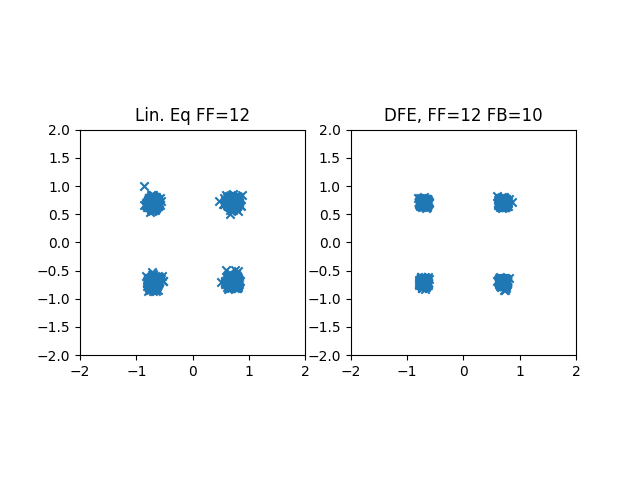
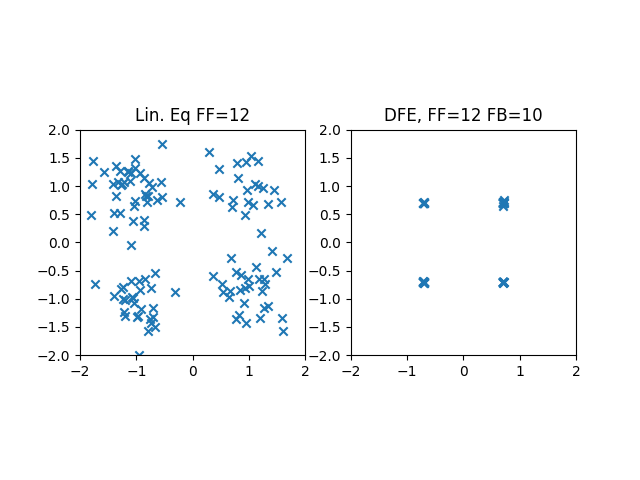
up

diff --git a/test_files/test_dfe_ms_v8_dfe.py b/test_files/test_dfe_ms_v8_dfe.py
@@ -203,7 +203,7 @@ def transmit(v,snr,Fs,fs,fc,n_rx,d0,bf):
         #v = sg.resample_poly(vr,1,4)
         vp = v[:len(up)+Nz*Ns]
         delval,xvals = fdel(vp,up)
-        delvals[i,:] = xvals
+        #delvals[i,:] = xvals
         vp1 = vp[delval:delval+len(up)]
         lendiff = len(up)-len(vp1)
         if lendiff > 0:
@@ -296,7 +296,7 @@ def dfe_matlab(vk, d, Ns, Nd, M):
     Lbf = 0.99
     Nplus = 6
 
-    v = vk
+    v = np.copy(vk)
 
     f = np.zeros((Nd,K),dtype=complex)
     
@@ -364,6 +364,107 @@ def dfe_matlab(vk, d, Ns, Nd, M):
         mse = 100
     return d_hat[Nt : -1], mse, #n_err, n_training
 
+def lineq(vk, d, Ns, Nd): 
+    M = 0
+    K = len(vk[:,0]) # maximum
+    Ns = 2
+    N = int(6 * Ns)
+    delta = 0 #10**(-3)
+    Nt = 4*(N+M)
+    FS = 2
+    Kf1 = 0.000
+    L = 0.99
+    P = np.eye(int(K*N+M))/delta
+    Lbf = 0.99
+    Nplus = 6
+
+    v = np.copy(vk)
+
+    f = np.zeros((Nd,K),dtype=complex)
+    
+    a = np.zeros(int(K*N), dtype=complex)
+    #b = np.zeros(M, dtype=complex)
+    #c = np.append(a, -b)
+    p = np.zeros(int(K),dtype=complex)
+    #d_tilde = np.zeros(M, dtype=complex)
+    Sf = np.zeros(K)
+    x = np.zeros((K,N), dtype=complex)
+    et = np.zeros(Nd, dtype=complex)
+    d_hat = np.zeros_like(d, dtype=complex)
+
+    for n in range(Nd-1):
+        nb = (n) * Ns + (Nplus - 1) * Ns
+        xn = v[
+            :, int(nb + np.ceil(Ns / FS / 2)-1) : int(nb + Ns)
+            : int(Ns / FS)
+        ]
+
+        x = x[:,:N] # in matlab, this appends zeros
+
+        for k in range(K):
+            p[k] = np.inner(x[k,:], np.conj(a[(k*N):(k+1)*N]))
+        psum = p.sum()
+        #print(psum)
+
+        d_hat[n] = psum
+
+        if n > Nt:
+            d[n] = dec4psk(d_hat[n])
+
+        e = d[n]- d_hat[n]
+        et[n] = np.abs(e ** 2)
+
+
+        y = np.reshape(x,int(K*N))
+
+        # RLS
+        k = (
+            np.matmul(P, y) / L
+            / (1 + np.matmul(np.matmul(y.conj(), P), y) / L)
+        )
+        a += k * np.conj(e)
+        P = P / L - np.matmul(np.outer(k, y.conj()), P) / L
+
+        a = a[:int(K*N)]
+
+    mse = 10 * np.log10(
+        np.mean(np.abs(d[Nt : -1 ] - d_hat[Nt : -1]) ** 2)
+    )
+    if np.isnan(mse):
+        mse = 100
+    return d_hat[Nt : -1], mse, #n_err, n_training
+
+def lms(v,d):
+    Nd = 3000
+    ns = 2
+    Nplus = 6
+    FS = 2
+    n_training = 88
+    d_hat = np.zeros(len(d), dtype=complex)
+    mu = 0.1
+    #v = v.flatten()
+    vn = np.copy(v)
+    for i in np.arange(len(d) - 1, dtype=int):
+        # resample v with fractional spacing
+        nb = (i) * ns + (Nplus - 1) * ns - 1 # basically a sample index
+        v_nt = vn[ int(nb + np.ceil(ns / FS / 2)) : int(nb + ns) 
+            + 1 : int(ns / FS)]
+        if len(v_nt) == 0:
+            v_nt = np.zeros_like(a)
+    # select a' (?)
+        if i==0:
+            a = np.ones_like(v_nt)
+    # calculate d_hat
+        d_hat[i] = np.inner(a,v_nt) #- d[i]
+    # calculate e (use d=dec(d_hat))
+        if i > n_training:
+            d[i] = dec4psk(d_hat[i])
+
+        err = d[i] - d_hat[i]
+    # select a(n+1) with stochastic gradient descent 
+        a += mu*v_nt*err.conj()
+    return d_hat[n_training:-50]
+
 if __name__ == "__main__":
     Nd = 3000
     Nz = 100
@@ -402,7 +503,7 @@ if __name__ == "__main__":
     s = np.real(us * np.exp(2j * np.pi * fc * np.arange(len(us)) / Fs))
     # s /= np.max(np.abs(s))
 
-    snr_db = np.array([5, 5, 5]) #, 15])
+    snr_db = np.array([15, 15]) #, 15])
     mse = np.zeros_like(snr_db)
     mse_dl = np.zeros_like(snr_db)
     d_hat_cum = np.zeros((len(snr_db),Nd-88-1), dtype=complex) # has to change if Nt changes :(
@@ -432,25 +533,23 @@ if __name__ == "__main__":
         v /= np.sqrt(pwr(v))
         vk, wk, deg_diff = transmit(v,snr,Fs,fs,fc,n_rx,d0,True) # this already does rough phase alignment
         deg_diff_cum[ind] = deg_diff
-        if ind==0:
-            d_hat1, mse_out = dfe_matlab(vk, d, int(0), Nd, int(0))
         if ind==1:
-            M = int(0)
-            d_hat2, mse_out = dfe_matlab(vk, d, Ns, Nd, M)
-        if ind==2:
+            d_hat1, mse_out = dfe_matlab(vk, d, Ns, Nd, int(10)) #lineq(vk, d, Ns, Nd)
+            d_hat1 = lms(vk[0,:],d)
+            d_hat1 = d_hat1 * 4 * np.exp(1j*np.pi/4)
+        if ind==0:
             M = int(10)
-            d_hat3, mse_out = dfe_matlab(vk, d, Ns, Nd, M)
-            mse[ind] = mse_out
+            d_hat2, mse_out = dfe_matlab(vk, d, Ns, Nd, M)
 
-    text_blk = ["Hard Decision","Lin. Eq FF=12","DFE, FF=12 FB=10"]
+    text_blk = ["Lin. Eq FF=12","DFE, FF=12 FB=10"]
     # plot const
     plt.subplot(1, 2, 1)
-    plt.scatter(np.real(d_hat2), np.imag(d_hat2), marker='x')
+    plt.scatter(np.real(d_hat1[-500:]), np.imag(d_hat1[-500:]), marker='x')
     plt.axis('square')
     plt.axis([-2, 2, -2, 2])
     plt.title("Lin. Eq FF=12") #(f'd0={d_lambda[ind]}'r'$\lambda$') 
     plt.subplot(1, 2, 2)
-    plt.scatter(np.real(d_hat3), np.imag(d_hat3), marker='x')
+    plt.scatter(np.real(d_hat2[-50:]), np.imag(d_hat2[-50:]), marker='x')
     plt.axis('square')
     plt.axis([-2, 2, -2, 2])
     plt.title("DFE, FF=12 FB=10") #(f'd0={d_lambda[ind]}'r'$\lambda$') 

diff --git a/test_files/gen_frame.py b/test_files/gen_frame.py
@@ -1,0 +1,67 @@
+import numpy as np
+import scipy.signal as sg
+import matplotlib.pyplot as plt
+
+def rcos(alpha, Ns, trunc):
+    tn = np.arange(-trunc * Ns, trunc * Ns+1) / Ns
+    p = np.sin(np.pi* tn)/(np.pi*tn) * np.cos(np.pi * alpha * tn) / (1 - 4 * (alpha**2) * (tn**2))
+    p[np.isnan(p)] = 0  # Replace NaN with 0
+    p[np.isinf(p)] = 0
+    p[-1] = 0
+    p[int(Ns*trunc)] = 1
+    return p
+
+def fil(d, p, Ns):
+    d = d.astype(complex)
+    N = len(d)
+    Lp = len(p)
+    Ld = Ns * N
+    u = np.zeros(Lp + Ld - Ns,dtype=complex)
+    for n in range(N-1):
+        window = np.arange(int(n*Ns), int(n*Ns + Lp))
+        u[window] =  u[window] + d[n] * p
+    return u
+
+if __name__ == "__main__":
+    Nd = 3000
+    Nz = 100
+    # init bits (training bits are a select repition of bits)
+    
+    dp = np.array([1, -1, 1, -1, 1, 1, -1, -1, 1, 1, 1, 1, 1])*(1+1j)/np.sqrt(2)
+    dp = np.array([1, -1, 1, -1, 1, 1, -1, -1, 1, 1, 1, 1, 1])
+    fc = 6.5e3
+    Fs = 96000
+    fs = Fs/4
+    Ts = 1/fs
+    alpha = 0.25
+    trunc = 4
+    Ns = 7
+    T = Ns*Ts
+    R = 1/T
+    B = R*(1+alpha)/2
+    Nso = Ns
+    uf = int(fs / R)
+
+    el_num = 12
+    el_spacing = 0.05 #np.array([0.01, 0.02, 0.05, 0.1, 0.15, 0.2, 0.25, 0.3])
+    d_lambda = el_spacing*fc/343
+
+    g = rcos(alpha,Ns,trunc)
+    up = fil(dp,g,Ns)
+    lenu = len(up)
+
+    d = np.sign(np.random.randn(Nd))
+    #d /= np.sqrt(2)
+    df = np.concatenate((dp, np.zeros(5), d[:20]))
+    ud = fil(d,g,Ns)
+    u = np.concatenate((up, np.zeros(Nz*Ns), ud))
+    us = sg.resample_poly(u,Fs,fs)
+    # upshift
+    s = np.real(us * np.exp(2j * np.pi * fc * np.arange(len(us)) / Fs))
+    # s /= np.max(np.abs(s))
+
+    plt.stem(df, '-o')
+    plt.title("Frame Configuration")
+    plt.xlabel("Samples")
+    plt.ylabel("Signal Amplitudes")
+    plt.show()
